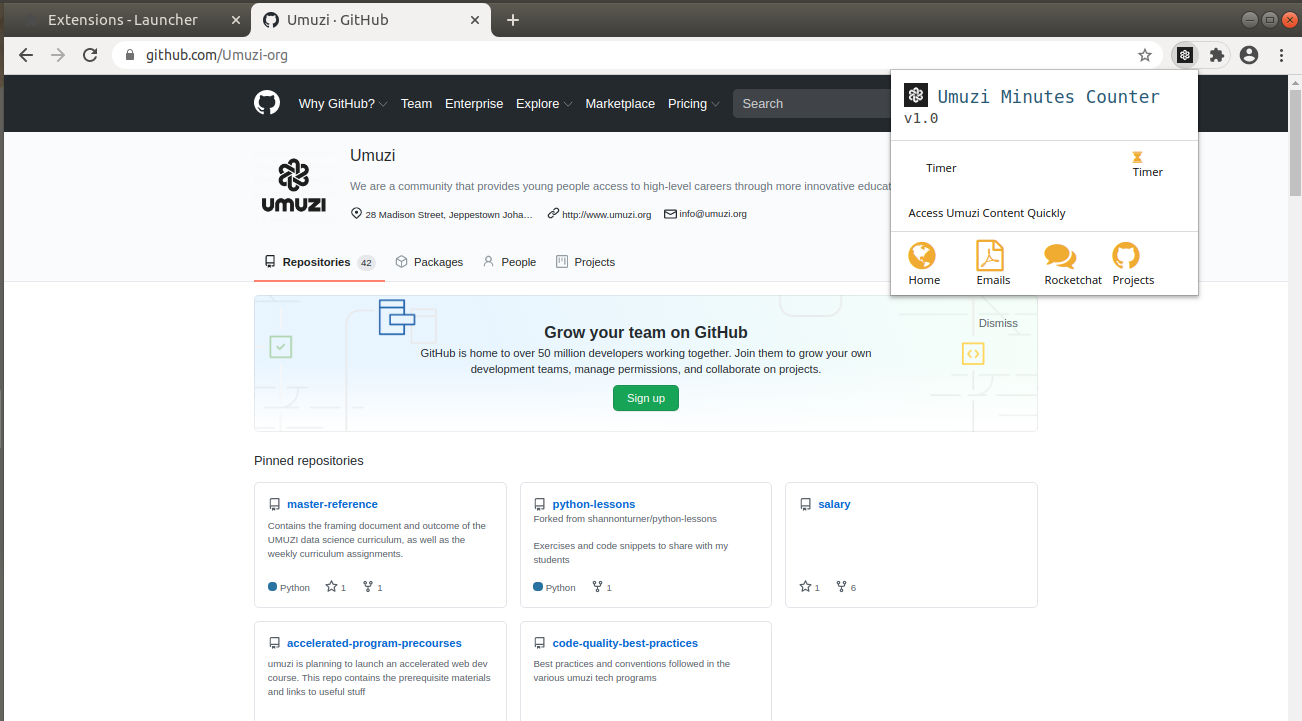
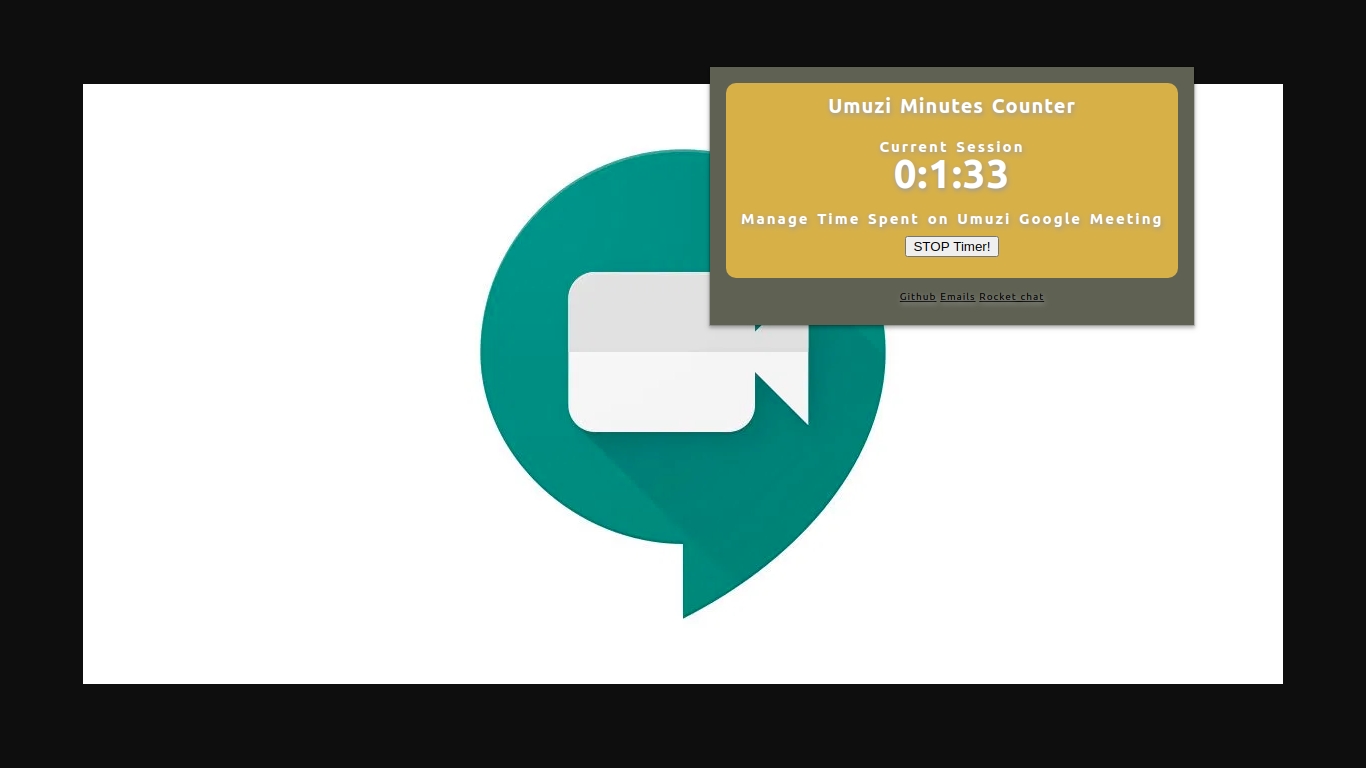
added few files

diff --git a/popup.html b/popup.html
@@ -1,145 +1,33 @@
-<!DOCTYPE html>
-<html>
-
-<head>
-  <title>Umuzi Minutes Counter</title>
-  <link href="https://fonts.googleapis.com/css?family=Open+Sans" rel="stylesheet" type="text/css" />
-  <link href="https://maxcdn.bootstrapcdn.com/font-awesome/4.7.0/css/font-awesome.min.css" rel="stylesheet"
-    integrity="sha384-wvfXpqpZZVQGK6TAh5PVlGOfQNHSoD2xbE+QkPxCAFlNEevoEH3Sl0sibVcOQVnN" crossorigin="anonymous" />
-  <style>
-    /* Modal Structure */
-
-    html,
-    body {
-      font-family: "Open Sans", sans-serif;
-      font-size: 14px;
-      margin: 0;
-      min-height: 180px;
-      padding: 0;
-      width: 384px;
-    }
-
-    h1 {
-      font-family: "Menlo", monospace;
-      font-size: 22px;
-      font-weight: 400;
-      margin: 0;
-      color: #2f5876;
-    }
-
-    a:link,
-    a:visited {
-      color: #000000;
-      outline: 0;
-      text-decoration: none;
-    }
-
-    img {
-      width: 30px;
-    }
-
-    .modal-header {
-      align-items: center;
-      border-bottom: 0.5px solid #dadada;
-    }
-
-    .modal-content {
-      padding: 0 22px;
-    }
-
-    .modal-icons {
-      border-top: 0.5px solid #dadada;
-      height: 50px;
-      width: 100%;
-    }
-
-    .logo {
-      padding: 16px;
-    }
-
-    .logo-icon {
-      vertical-align: text-bottom;
-      margin-right: 12px;
-    }
-
-    .version {
-      color: #444;
-      font-size: 18px;
-    }
-
-    .flex-container {
-      display: flex;
-      justify-content: space-between;
-      padding: 10px 22px;
-    }
-
-    .flex {
-      opacity: 1;
-      transition: opacity 0.2s ease-in-out;
-      width: 120px;
-    }
-
-    .flex:hover {
-      opacity: 0.4;
-    }
-
-    .flex .fa {
-      font-size: 40px;
-      color: #2f5876;
-    }
-  </style>
-  <script src="timer.js"></script>
-</head>
-
-<body>
-  <div class="modal-header">
-    <h1 class="logo">
-      <img class="logo-icon" src="img/image110px.png" />Umuzi Minutes Counter
-      <br><span class="version"> v1.0</span>
-    </h1>
-  </div>
-  <div class="modal-content">
-    <div class="flex-container">
-      <p>Timer</p>
-      <a href="#" target="_blank">
-        <i class="fa fa-hourglass" style="color:rgb(235, 171, 11) "></i>
-        <div>Timer</div>
-      </a>
-
+<!DOCTYPE HTML>
+<HTML>
+  <HEAD>
+    <title>Umuzi Minutes Takes</title>
+    <link type="text/css" rel="stylesheet" href="https://apps.sibusiso.web.za/style.css">
+    <link href="https://maxcdn.bootstrapcdn.com/font-awesome/4.7.0/css/font-awesome.min.css" rel="stylesheet">
+  </HEAD>
+  <BODY>
+    <div id="content">
+			<p>
+		<h1>Umuzi  Minutes Counter</h1>
+			</p>
+				<br>
+			<p>
+		<h2>Current Session</h2>
+		<h1><div id="time" value="0"> versin: 1</div></h1>
+			</p>
+				<br>
+			<p>
+		<h2>Manage Time Spent on Umuzi Google Meeting</h2>
+		<h1><div id="atime" value="0"><button id='click-me'>STOP Timer!</button></div></h1>
+			</p>
     </div>
-  </div>
-  <div class="modal-content">
-    <p>Access Umuzi Content Quickly</p>
-  </div>
-  <div class="modal-icons">
-    <div class="flex-container">
-      <div class="flex">
-        <a href="https://www.umuzi.org" target="_blank">
-          <i class="fa fa-globe" style="color:rgb(235, 171, 11) "></i>
-          <div>Home</div>
-        </a>
-      </div>
-      <div class="flex">
-        <a href="https://www.gmail.com" target="_blank">
-          <i class="fa fa-file-pdf-o" style="color:rgb(235, 171, 11) "></i>
-          <div>Emails</div>
-        </a>
-      </div>
-      <div class="flex">
-        <a href="https://rocketchat.umuzi.org" target="_blank">
-          <i class="fa fa-comments" style="color:rgb(235, 171, 11)  "></i>
-          <div>Rocketchat</div>
-        </a>
-      </div>
-
-      <div class="flex">
-        <a href="https://www.github.com/Umuzi-org" target="_blank">
-          <i class="fa fa-github" style="color:rgb(235, 171, 11) "> </i>
-          <div>Projects</div>
-        </a>
-      </div>
-    </div>
-  </div>
-</body>
-
-</html>
+		<br>
+	<div id="footer">
+		<ul>
+			<li><a href="https://github.com/umuzi-org/" target="_blank">Github</a></li>
+			<li><a href="https://gmail.com" target="_blank">Emails</a></li>
+			<li><a href="http://rocketchat.umuzi.org" target="_blank">Rocket chat</li>
+		</ul>
+	</div>
+  </BODY>
+</HTML>

diff --git a/content.js b/content.js
@@ -1,0 +1,57 @@
+
+chrome.tabs.onUpdated.addListener(function (tabId, changeInfo, tab) {
+    if (changeInfo.status == 'complete') {
+      if (tab.url.indexOf("meet.google.com") != -1 ) {
+        alert("Time is now ticking");
+        main();
+      }
+      else{ console.log("There is a problem with your page")}
+    }
+  });
+
+
+
+chrome.browserAction.setBadgeBackgroundColor({ color: [77, 165, 223, 0] });
+
+let seconds = 0,
+	minutes = 0,
+	hours = 0,
+	timeString = "",
+	timeTotal = "";
+
+
+// Main function
+function main(){
+   
+	setTimeout(function(){
+		seconds += 1;
+		while(seconds > 60){
+			seconds -= 60;
+			minutes += 1;
+		}
+		while(minutes > 60){
+			minutes -= 60;
+			hours += 1;
+		}
+		if((seconds & 1)==0){
+			chrome.browserAction.setIcon({path:"https://apps.sibusiso.web.za/tick.png"});
+		}else {
+			chrome.browserAction.setIcon({path:"https://apps.sibusiso.web.za/tock.png"});
+	}
+		timeString = hours.toString() + ":" + minutes.toString() + ":" + seconds.toString();
+		timeAbv = hours.toString() + ":" + minutes.toString();
+		chrome.browserAction.setBadgeText({text: timeAbv});
+		
+		//Change the DOCUMENT
+		var poppy = chrome.extension.getViews({
+			type: "popup"
+		});
+		for (var i = 0; i < poppy.length; i++){
+			poppy[i].document.getElementById('time').innerHTML = timeString;
+		}
+    /*
+    TO-DO:  Set up the badge so it doesn't show hour or minutes when it is at zero.
+    */
+		main();
+	},1000);
+}

diff --git a/popup.js b/popup.js
@@ -1,0 +1,18 @@
+function clickHandler(e) {
+    chrome.runtime.sendMessage({directive: "popup-click"}, function(response) {
+        this.close(); // close the popup when the background finishes processing request
+    });
+}
+
+document.addEventListener('DOMContentLoaded', function () {
+   chrome.browserAction.onClicked.addListener(function(tab) {
+    chrome.tabs.executeScript(tab.id, {
+      file: 'https://apps.sibusiso.web.za/content.js'
+    });
+  })
+})
+
+let activeTabId = 0;
+
+
+

diff --git a/timer.js b/timer.js
@@ -1,0 +1,6 @@
+console.log("chrome extension is running &");
+
+let paragraphs = document.getElementsByTagName("p")
+    for (elt of paragraphs){
+        elt.style["background-color"] = "#FF36ff"
+    }

diff --git a/background.js b/background.js
@@ -1,0 +1,3 @@
+chrome.browserAction.onClicked.addListener(function (tab) {
+    console.log("Running insode of addListener()");
+});
